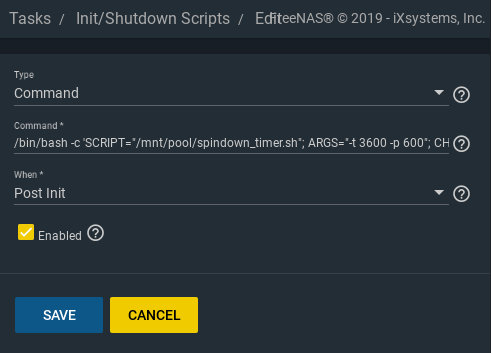
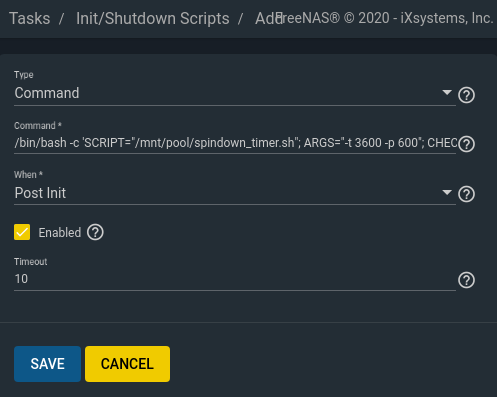
Incorporate FreeNAS-11.3 changes into deployment info

diff --git a/README.md b/README.md
@@ -81,6 +81,10 @@ executes `spindown_timer.sh` after boot.
 
 _Note: Be sure to select `Command` as `Type`_
 
+_Note: With FreeNAS-11.3 a `Timeout` was introduced. However, the spindown script is never
+terminated by FreeNAS, regardless of the configured value. Therefore, keep `Timeout` at the
+default value of 10 seconds for now._
+
 #### Delayed start (i.e. script placed in encrypted pool)
 If you've placed the script at a location that is not available right after boot a delayed start
 of the spindown timer is required. This for example applies to situations where the script is
@@ -105,6 +109,10 @@ seconds.
 ![Spindown timer delayed post init task](screenshots/task-delayed-oneliner.png)
 
 _Note: Be sure to select `Command` as `Type`_
+
+_Note: With FreeNAS-11.3 a `Timeout` was introduced. However, the spindown script is never
+terminated by FreeNAS, regardless of the configured value. Therefore, keep `Timeout` at the
+default value of 10 seconds for now._
 
 #### Verify autostart
 You can verify execution of the script either using a process manager like `htop` or simply by using the following command: `ps -aux | grep "spindown_timer.sh"`
